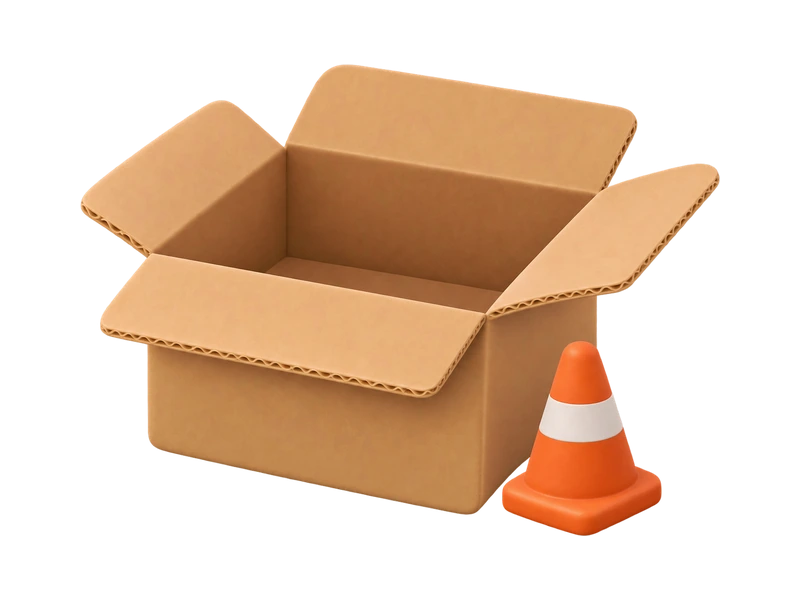
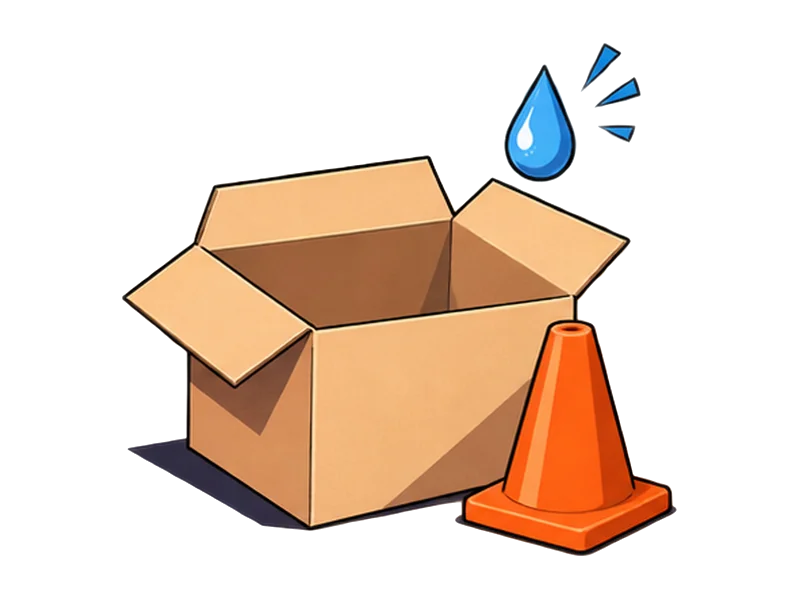
desain(G10-04): ilustrasi keadaan kosong, galat, dan berhasil (#188)
Pengganti G9-04 bernama sama di public/aset/gambar/keadaan/, gaya anime 2D cel-shaded.

diff --git a/desain/catatan/G10-04.md b/desain/catatan/G10-04.md
@@ -1,0 +1,29 @@
+# G10-04 Keadaan kosong, galat, dan berhasil
+
+| Berkas | Ukuran | Format | KB |
+|---|---|---|---:|
+| `kosong-data.webp` | 800 × 600 | WebP alfa | 30,05 |
+| `kosong-hasil.webp` | 800 × 600 | WebP alfa | 25,41 |
+| `tidak-ketemu.webp` | 800 × 600 | WebP alfa | 48,51 |
+| `galat-404.webp` | 800 × 600 | WebP alfa | 50,95 |
+| `galat-500.webp` | 800 × 600 | WebP alfa | 55,56 |
+| `pendaftaran-tutup.webp` | 800 × 600 | WebP alfa | 37,59 |
+| `berhasil.webp` | 800 × 600 | WebP alfa | 53,22 |
+| `memuat.webp` | 800 × 600 | WebP alfa | 68,64 |
+
+Prompt dasar dan tambahan tetap berikut dipakai bersama adegan di tabel. Garis tinta, bayangan keras, dan palet mengacu pada rujukan lintasan.
+
+> 2D cel-shaded sports anime illustration, school-age track athletes, dynamic sprint poses, bold linework, crisp shadow shapes, low-angle track composition, brand-colored jerseys. Clean background, no text, no letters, no numbers, no logos, no watermark, modest sportswear, Indonesian school kids, original characters.
+
+| Berkas | Ringkasan arahan gambar |
+|---|---|
+| `kosong-data.webp` | Kardus kosong terbuka dengan kerucut oranye dan satu tetes keringat biru. |
+| `kosong-hasil.webp` | Podium tiga tingkat kosong dan stopwatch tanpa angka. |
+| `tidak-ketemu.webp` | Tokoh D berjongkok di lintasan kosong dan melihat lewat kaca pembesar. |
+| `galat-404.webp` | Tokoh A keliru arah lari, tersenyum bingung di samping tanda tanya grafis. |
+| `galat-500.webp` | Tokoh C berlutut memperbaiki gawang mini biru dengan kunci pas. |
+| `pendaftaran-tutup.webp` | Gerbang stadion tertutup dengan gembok emas dan langit senja di dalam siluet. |
+| `berhasil.webp` | Tokoh B melompat senang di antara potongan pita biru, oranye dan magenta. |
+| `memuat.webp` | Sepatu lari putih di garis start diagonal, dengan sapuan biru. |
+
+Logo resmi dari `sumber/logo/logo-milklife-athletics-challenge.webp` ditempel dengan Pillow sesudah ilustrasi selesai. Alfa asli dipertahankan, warna tidak diubah, dan lebar sasaran sekitar 18–22% dari dada yang terlihat. Sudut stempel disesuaikan dengan arah bahu. Logo dipasang pada D saat mencari, A saat keluar jalur, C saat memperbaiki gawang, dan B saat melompat.
